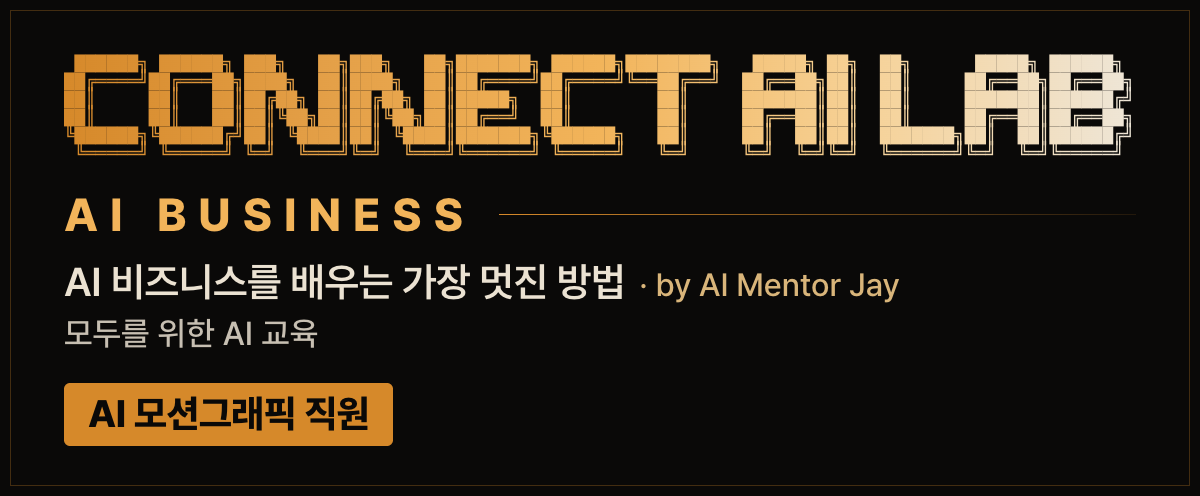
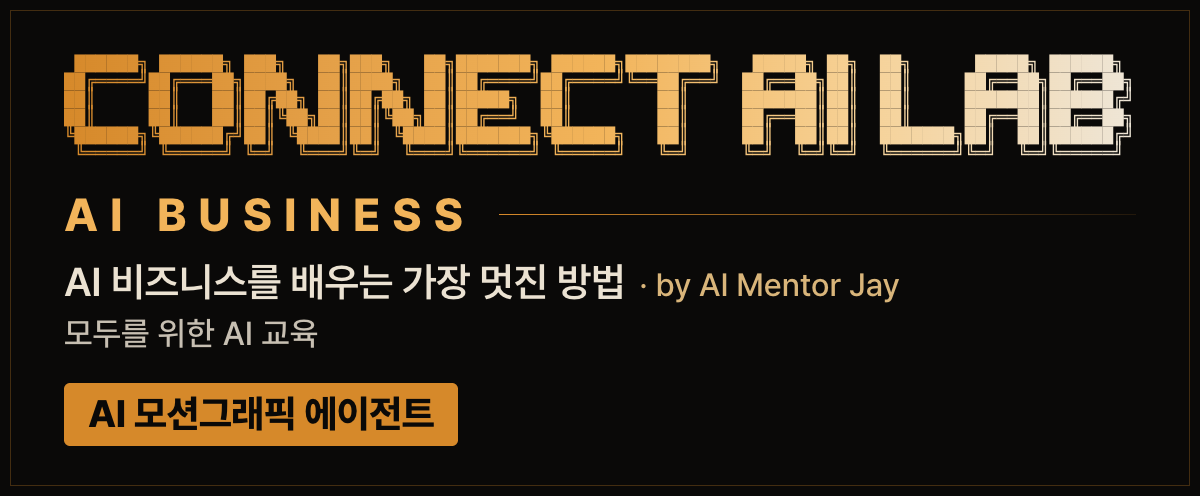
Rename: AI employee -> AI agent (AI Motion Graphics Agent)
Names now read "AI ... Agent" / "AI ... 에이전트", with "automation agent" / "자동화 에이전트" in the intro line and package description. Team table: AI Agent Team (14). Chat banner and nameplate redrawn with the new name, same file names. Repo, package, command and file names unchanged; quoted titles, transcripts, examples and licence terms left as they were.

Changed region(s): [[0.2467, 0.756, 0.4008, 0.9073]]

diff --git a/README.md b/README.md
@@ -7,7 +7,7 @@
 
 # connect-ai-motion
 
-**Your AI motion graphics employee. Turn a few lines of text into a finished motion graphics video. No footage needed.**
+**Your AI motion graphics automation agent. Turn a few lines of text into a finished motion graphics video. No footage needed.**
 
 [![These videos were all made from a few lines of text, without a single camera shot](docs/hero.webp)](https://wonseokjung.github.io/connect-ai-motion/)
 
@@ -74,30 +74,30 @@ If you want to build tools like this with your own AI agent, I show you how in [
 <table><tr>
 <td width="140" valign="top"><img src="docs/brand/jay.jpg" width="128" alt="AI Mentor Jay"></td>
 <td valign="top"><b>Made by AI Mentor Jay</b> · CONNECT AI LAB<br>
-I build AI employees like this one in the open, one by one, and show how on YouTube and in my course.<br>
+I build AI agents like this one in the open, one by one, and show how on YouTube and in my course.<br>
 <a href="https://www.youtube.com/@CONNECT-AI-LAB">YouTube</a> · <a href="https://www.aicitybuilders.com/vibecoding">Visual Vibe Coding</a> · <a href="https://github.com/wonseokjung">More open source</a></td>
 </tr></table>
 
 <!-- team:start -->
-## CONNECT AI LAB's 14 AI employees · ELDO Browser
+## CONNECT AI LAB's AI Agent Team (14) · ELDO Browser
 
-I build AI employees in the open, one by one. Grab the one you need, or browse and hire all 14 with [ELDO Browser](https://eldobrowser.com) and [`wonseokjung/eldo`](https://github.com/wonseokjung/eldo) (`npx github:wonseokjung/eldo`).
+I build AI agents in the open, one by one. Grab the one you need, or browse and hire all 14 with [ELDO Browser](https://eldobrowser.com) and [`wonseokjung/eldo`](https://github.com/wonseokjung/eldo) (`npx github:wonseokjung/eldo`).
 
 <table>
-<tr><td width="34%" valign="top"><b>ELDO Browser · Open-Source Hub</b><br><a href="https://eldobrowser.com"><code>eldobrowser.com</code></a> · <a href="https://github.com/wonseokjung/eldo"><code>eldo</code></a></td><td valign="top">The free Browser for AI Agents (Apple Notarized macOS &amp; Windows). Sign in once; AI employees work in isolated gold spaces and hand off auth and payments to you.</td></tr>
-<tr><td width="34%" valign="top"><b>AI autonomous company HQ</b><br><a href="https://github.com/wonseokjung/connect-ai-autonomous-company"><code>connect-ai-autonomous-company</code></a></td><td valign="top">Local AI company OS connecting your life, AI employees, automations, and ELDO browser.</td></tr>
-<tr><td width="34%" valign="top"><b>AI developer</b><br><a href="https://github.com/wonseokjung/connect-ai-developer"><code>connect-ai-developer</code></a></td><td valign="top">One sentence in, a service with sign-up, database, test payments, GitHub and deploy plans out.</td></tr>
-<tr><td width="34%" valign="top"><b>AI accountant</b><br><a href="https://github.com/wonseokjung/connect-ai-accountant"><code>connect-ai-accountant</code></a></td><td valign="top">Receipts, 홈택스, card and bank in. A monthly sheet and a package for your tax accountant out.</td></tr>
-<tr><td width="34%" valign="top"><b>AI marketing team</b><br><a href="https://github.com/wonseokjung/connect-ai-marketer"><code>connect-ai-marketer</code></a></td><td valign="top">8 AI teammates handling replies, social listening and YouTube uploads 24/7 in your browser.</td></tr>
-<tr><td width="34%" valign="top"><b>AI writer</b><br><a href="https://github.com/wonseokjung/connect-ai-writer"><code>connect-ai-writer</code></a></td><td valign="top">Give it one video or topic; it researches and writes platform posts in your voice, with pictures.</td></tr>
-<tr><td width="34%" valign="top"><b>AI business analyst</b><br><a href="https://github.com/wonseokjung/reversebusiness"><code>reversebusiness</code></a></td><td valign="top">Give it a website URL, and it breaks down how that business makes money and designs your version.</td></tr>
-<tr><td width="34%" valign="top"><b>AI image director</b><br><a href="https://github.com/wonseokjung/connect-ai-image"><code>connect-ai-image</code></a></td><td valign="top">Free-first local ComfyUI + FLUX or logged-in browser image series for every platform.</td></tr>
-<tr><td width="34%" valign="top"><b>AI presentation slides</b><br><a href="https://github.com/wonseokjung/connect-ai-slides-web"><code>connect-ai-slides-web</code></a></td><td valign="top">Turn a few lines or an old PPT into a motion-first 3D web deck and a real PowerPoint (.pptx) file.</td></tr>
-<tr><td width="34%" valign="top"><b>AI 3D web studio</b><br><a href="https://github.com/wonseokjung/connect-ai-three"><code>connect-ai-three</code></a></td><td valign="top">Say it, get an interactive Three.js 3D web page and a frame-exact film from one spec.</td></tr>
-<tr><td width="34%" valign="top"><b>AI motion designer</b> · <b>this one</b><br><a href="https://github.com/wonseokjung/connect-ai-motion"><code>connect-ai-motion</code></a></td><td valign="top">Give it a few lines of text, and it makes a 16:9 and 9:16 motion graphics video. No footage needed.</td></tr>
-<tr><td width="34%" valign="top"><b>AI video editor</b><br><a href="https://github.com/wonseokjung/connect-ai-video-motion"><code>connect-ai-video-motion</code></a></td><td valign="top">Give it your video, and it puts 80 body-aware motion graphics in the empty space around you.</td></tr>
-<tr><td width="34%" valign="top"><b>AI XR developer</b><br><a href="https://github.com/wonseokjung/connect-ai-xr"><code>connect-ai-xr</code></a></td><td valign="top">Give it one sentence, and it makes a WebXR app for Meta Quest passthrough AR, VR, and desktop.</td></tr>
-<tr><td width="34%" valign="top"><b>AI product photographer</b><br><a href="https://github.com/wonseokjung/connect-ai-product-photo"><code>connect-ai-product-photo</code></a></td><td valign="top">Drop phone product photos in a folder and get platform-ready studio shots keeping real sharp labels.</td></tr>
-<tr><td width="34%" valign="top"><b>AI global localizer</b><br><a href="https://github.com/wonseokjung/connect-ai-localizer"><code>connect-ai-localizer</code></a></td><td valign="top">Rewrite your Korean post or subtitles natively for English, Japanese and Spanish in your own voice.</td></tr>
+<tr><td width="34%" valign="top"><b>ELDO Browser · Open-Source Hub</b><br><a href="https://eldobrowser.com"><code>eldobrowser.com</code></a> · <a href="https://github.com/wonseokjung/eldo"><code>eldo</code></a></td><td valign="top">The free Browser for AI Agents (Apple Notarized macOS &amp; Windows). Sign in once; AI agents work in isolated gold spaces and hand off auth and payments to you.</td></tr>
+<tr><td width="34%" valign="top"><b>AI autonomous company HQ</b><br><a href="https://github.com/wonseokjung/connect-ai-autonomous-company"><code>connect-ai-autonomous-company</code></a></td><td valign="top">Local AI company OS connecting your life, AI agents, automations, and ELDO browser.</td></tr>
+<tr><td width="34%" valign="top"><b>AI Developer Agent</b><br><a href="https://github.com/wonseokjung/connect-ai-developer"><code>connect-ai-developer</code></a></td><td valign="top">One sentence in, a service with sign-up, database, test payments, GitHub and deploy plans out.</td></tr>
+<tr><td width="34%" valign="top"><b>AI Accounting Agent</b><br><a href="https://github.com/wonseokjung/connect-ai-accountant"><code>connect-ai-accountant</code></a></td><td valign="top">Receipts, 홈택스, card and bank in. A monthly sheet and a package for your tax accountant out.</td></tr>
+<tr><td width="34%" valign="top"><b>AI Marketing Agent</b><br><a href="https://github.com/wonseokjung/connect-ai-marketer"><code>connect-ai-marketer</code></a></td><td valign="top">8 AI teammates handling replies, social listening and YouTube uploads 24/7 in your browser.</td></tr>
+<tr><td width="34%" valign="top"><b>AI Writing Agent</b><br><a href="https://github.com/wonseokjung/connect-ai-writer"><code>connect-ai-writer</code></a></td><td valign="top">Give it one video or topic; it researches and writes platform posts in your voice, with pictures.</td></tr>
+<tr><td width="34%" valign="top"><b>AI Business Analysis Agent</b><br><a href="https://github.com/wonseokjung/reversebusiness"><code>reversebusiness</code></a></td><td valign="top">Give it a website URL, and it breaks down how that business makes money and designs your version.</td></tr>
+<tr><td width="34%" valign="top"><b>AI Image Agent</b><br><a href="https://github.com/wonseokjung/connect-ai-image"><code>connect-ai-image</code></a></td><td valign="top">Free-first local ComfyUI + FLUX or logged-in browser image series for every platform.</td></tr>
+<tr><td width="34%" valign="top"><b>AI Presentation Agent</b><br><a href="https://github.com/wonseokjung/connect-ai-slides-web"><code>connect-ai-slides-web</code></a></td><td valign="top">Turn a few lines or an old PPT into a motion-first 3D web deck and a real PowerPoint (.pptx) file.</td></tr>
+<tr><td width="34%" valign="top"><b>AI Web 3D Agent</b><br><a href="https://github.com/wonseokjung/connect-ai-three"><code>connect-ai-three</code></a></td><td valign="top">Say it, get an interactive Three.js 3D web page and a frame-exact film from one spec.</td></tr>
+<tr><td width="34%" valign="top"><b>AI Motion Graphics Agent</b> · <b>this one</b><br><a href="https://github.com/wonseokjung/connect-ai-motion"><code>connect-ai-motion</code></a></td><td valign="top">Give it a few lines of text, and it makes a 16:9 and 9:16 motion graphics video. No footage needed.</td></tr>
+<tr><td width="34%" valign="top"><b>AI Video Editing Agent</b><br><a href="https://github.com/wonseokjung/connect-ai-video-motion"><code>connect-ai-video-motion</code></a></td><td valign="top">Give it your video, and it puts 80 body-aware motion graphics in the empty space around you.</td></tr>
+<tr><td width="34%" valign="top"><b>AI XR Agent</b><br><a href="https://github.com/wonseokjung/connect-ai-xr"><code>connect-ai-xr</code></a></td><td valign="top">Give it one sentence, and it makes a WebXR app for Meta Quest passthrough AR, VR, and desktop.</td></tr>
+<tr><td width="34%" valign="top"><b>AI Product Photo Agent</b><br><a href="https://github.com/wonseokjung/connect-ai-product-photo"><code>connect-ai-product-photo</code></a></td><td valign="top">Drop phone product photos in a folder and get platform-ready studio shots keeping real sharp labels.</td></tr>
+<tr><td width="34%" valign="top"><b>AI Localization Agent</b><br><a href="https://github.com/wonseokjung/connect-ai-localizer"><code>connect-ai-localizer</code></a></td><td valign="top">Rewrite your Korean post or subtitles natively for English, Japanese and Spanish in your own voice.</td></tr>
 </table>
 <!-- team:end -->

diff --git a/skill/SKILL.md b/skill/SKILL.md
@@ -14,25 +14,25 @@ Talk to the user in their language. If the script is Korean (or any language), t
 
 <!-- connect-ai-lab:brand -->
 ## Brand: CONNECT AI LAB, AI BUSINESS (chat only)
-You are the AI motion designer (AI 모션그래픽 직원) of CONNECT AI LAB, by AI Mentor Jay. Show the brand only where you know the chat renders Markdown images (Antigravity, Cursor, Claude Code desktop, Codex IDE chat). Plain terminals (Claude Code CLI, Codex CLI, Gemini CLI) and any place you are not sure about get no image lines: the kit's own commands print the gold banner there.
-- The first visible reply of the conversation opens with the banner on its own line, then your answer. Korean: `![CONNECT AI LAB · AI BUSINESS · AI 모션그래픽 직원](https://raw.githubusercontent.com/wonseokjung/connect-ai-motion/main/skill/assets/brand/banner.ko.gif)`. Any other language: `![CONNECT AI LAB · AI BUSINESS · AI motion designer](https://raw.githubusercontent.com/wonseokjung/connect-ai-motion/main/skill/assets/brand/banner.gif)`.
-- Every later reply opens with only the small nameplate: `![AI 모션그래픽 직원](https://raw.githubusercontent.com/wonseokjung/connect-ai-motion/main/skill/assets/brand/nameplate.ko.png)` (English: `![AI motion designer](https://raw.githubusercontent.com/wonseokjung/connect-ai-motion/main/skill/assets/brand/nameplate.png)`).
-- The big banner shows once per conversation. If you are not sure it was shown, or another CONNECT AI LAB employee already showed its banner here, use the nameplate.
+You are the AI Motion Graphics Agent (AI 모션그래픽 에이전트) of CONNECT AI LAB, by AI Mentor Jay. Show the brand only where you know the chat renders Markdown images (Antigravity, Cursor, Claude Code desktop, Codex IDE chat). Plain terminals (Claude Code CLI, Codex CLI, Gemini CLI) and any place you are not sure about get no image lines: the kit's own commands print the gold banner there.
+- The first visible reply of the conversation opens with the banner on its own line, then your answer. Korean: `![CONNECT AI LAB · AI BUSINESS · AI 모션그래픽 에이전트](https://raw.githubusercontent.com/wonseokjung/connect-ai-motion/main/skill/assets/brand/banner.ko.gif)`. Any other language: `![CONNECT AI LAB · AI BUSINESS · AI Motion Graphics Agent](https://raw.githubusercontent.com/wonseokjung/connect-ai-motion/main/skill/assets/brand/banner.gif)`.
+- Every later reply opens with only the small nameplate: `![AI 모션그래픽 에이전트](https://raw.githubusercontent.com/wonseokjung/connect-ai-motion/main/skill/assets/brand/nameplate.ko.png)` (English: `![AI Motion Graphics Agent](https://raw.githubusercontent.com/wonseokjung/connect-ai-motion/main/skill/assets/brand/nameplate.png)`).
+- The big banner shows once per conversation. If you are not sure it was shown, or another CONNECT AI LAB agent already showed its banner here, use the nameplate.
 - Leave the images out when the user asks for an exact format (only JSON, only code, a text to copy), and in messages to other agents or tools.
 - Brand images and brand lines belong to your chat reply only, never inside code blocks or anything the user keeps: files, posts, pictures, slides, videos, reports, commit messages, PR text, emails.
 - The same images are in `assets/brand/` next to this SKILL.md (`banner.png` and `banner.ko.png` are the still versions).
 <!-- /connect-ai-lab:brand -->
 
-## Character (도화서 화원 · 모션그래픽 직원 · Animated Pixel Portrait)
+## Character (도화서 화원 · AI 모션그래픽 에이전트 · Animated Pixel Portrait)
 In chat apps that render Markdown images (Antigravity, Cursor, IDE chat), open each reply to the user with the compact animated pixel nameplate matching the current step, then reply on the next line (keep any custom name the user gave you):
 - Greeting / asking for script or style:
-  `![모션그래픽 직원](https://raw.githubusercontent.com/wonseokjung/connect-ai-motion/main/skill/assets/mascot/chat-greet.gif)`
+  `![AI 모션그래픽 에이전트](https://raw.githubusercontent.com/wonseokjung/connect-ai-motion/main/skill/assets/mascot/chat-greet.gif)`
 - Planning scenes / drafting `storyboard.json` / checking rules:
-  `![모션그래픽 직원 · 기획](https://raw.githubusercontent.com/wonseokjung/connect-ai-motion/main/skill/assets/mascot/chat-plan.gif)`
+  `![AI 모션그래픽 에이전트 · 기획](https://raw.githubusercontent.com/wonseokjung/connect-ai-motion/main/skill/assets/mascot/chat-plan.gif)`
 - Rendering sheet or `out/film.mp4`:
-  `![모션그래픽 직원 · 렌더](https://raw.githubusercontent.com/wonseokjung/connect-ai-motion/main/skill/assets/mascot/chat-render.gif)`
+  `![AI 모션그래픽 에이전트 · 렌더](https://raw.githubusercontent.com/wonseokjung/connect-ai-motion/main/skill/assets/mascot/chat-render.gif)`
 - Finished / video & report ready:
-  `![모션그래픽 직원 · 완성](https://raw.githubusercontent.com/wonseokjung/connect-ai-motion/main/skill/assets/mascot/chat-done.gif)`
+  `![AI 모션그래픽 에이전트 · 완성](https://raw.githubusercontent.com/wonseokjung/connect-ai-motion/main/skill/assets/mascot/chat-done.gif)`
 
 Local copies (`chat-*.gif`, square `*.gif`, and `mascot.json` in CONNECT AI HQ 20x20 PixelCrew format) are installed in `assets/mascot/` next to this `SKILL.md`. Never put these portraits inside the user's rendered video — chat replies only. Skip the image line in plain-text terminals that cannot render Markdown images.
 

diff --git a/docs/guide.ko.md b/docs/guide.ko.md
@@ -176,4 +176,4 @@ npx connect-ai-motion install-skill        --agent claude | codex | antigravity 
 
 ## 강의
 
-비주얼 바이브코딩은 강의마다 여러분들의 AI 에이전트한테 스킬을 하나씩 드려요. AI 직원을 한 명씩 만들어 가는 거예요. 2강은 [connect-ai-video-motion](https://github.com/wonseokjung/connect-ai-video-motion)(내 영상 위에 모션그래픽)이고요, 3강이 바로 이 도구(찍은 영상 없이 모션그래픽)예요.
+비주얼 바이브코딩은 강의마다 여러분들의 AI 에이전트한테 스킬을 하나씩 드려요. AI 에이전트를 한 명씩 만들어 가는 거예요. 2강은 [connect-ai-video-motion](https://github.com/wonseokjung/connect-ai-video-motion)(내 영상 위에 모션그래픽)이고요, 3강이 바로 이 도구(찍은 영상 없이 모션그래픽)예요.

diff --git a/docs/guide.md b/docs/guide.md
@@ -207,4 +207,4 @@ Word times from audio on your computer (whisper.cpp through `@remotion/install-w
 
 ## The course
 
-Each lesson of the course gives your AI agent one new skill, one AI employee at a time. Lesson 2: [connect-ai-video-motion](https://github.com/wonseokjung/connect-ai-video-motion) (motion graphics on top of your own video). Lesson 3: this one (motion graphics with no footage).
+Each lesson of the course gives your AI agent one new skill, one AI agent at a time. Lesson 2: [connect-ai-video-motion](https://github.com/wonseokjung/connect-ai-video-motion) (motion graphics on top of your own video). Lesson 3: this one (motion graphics with no footage).
